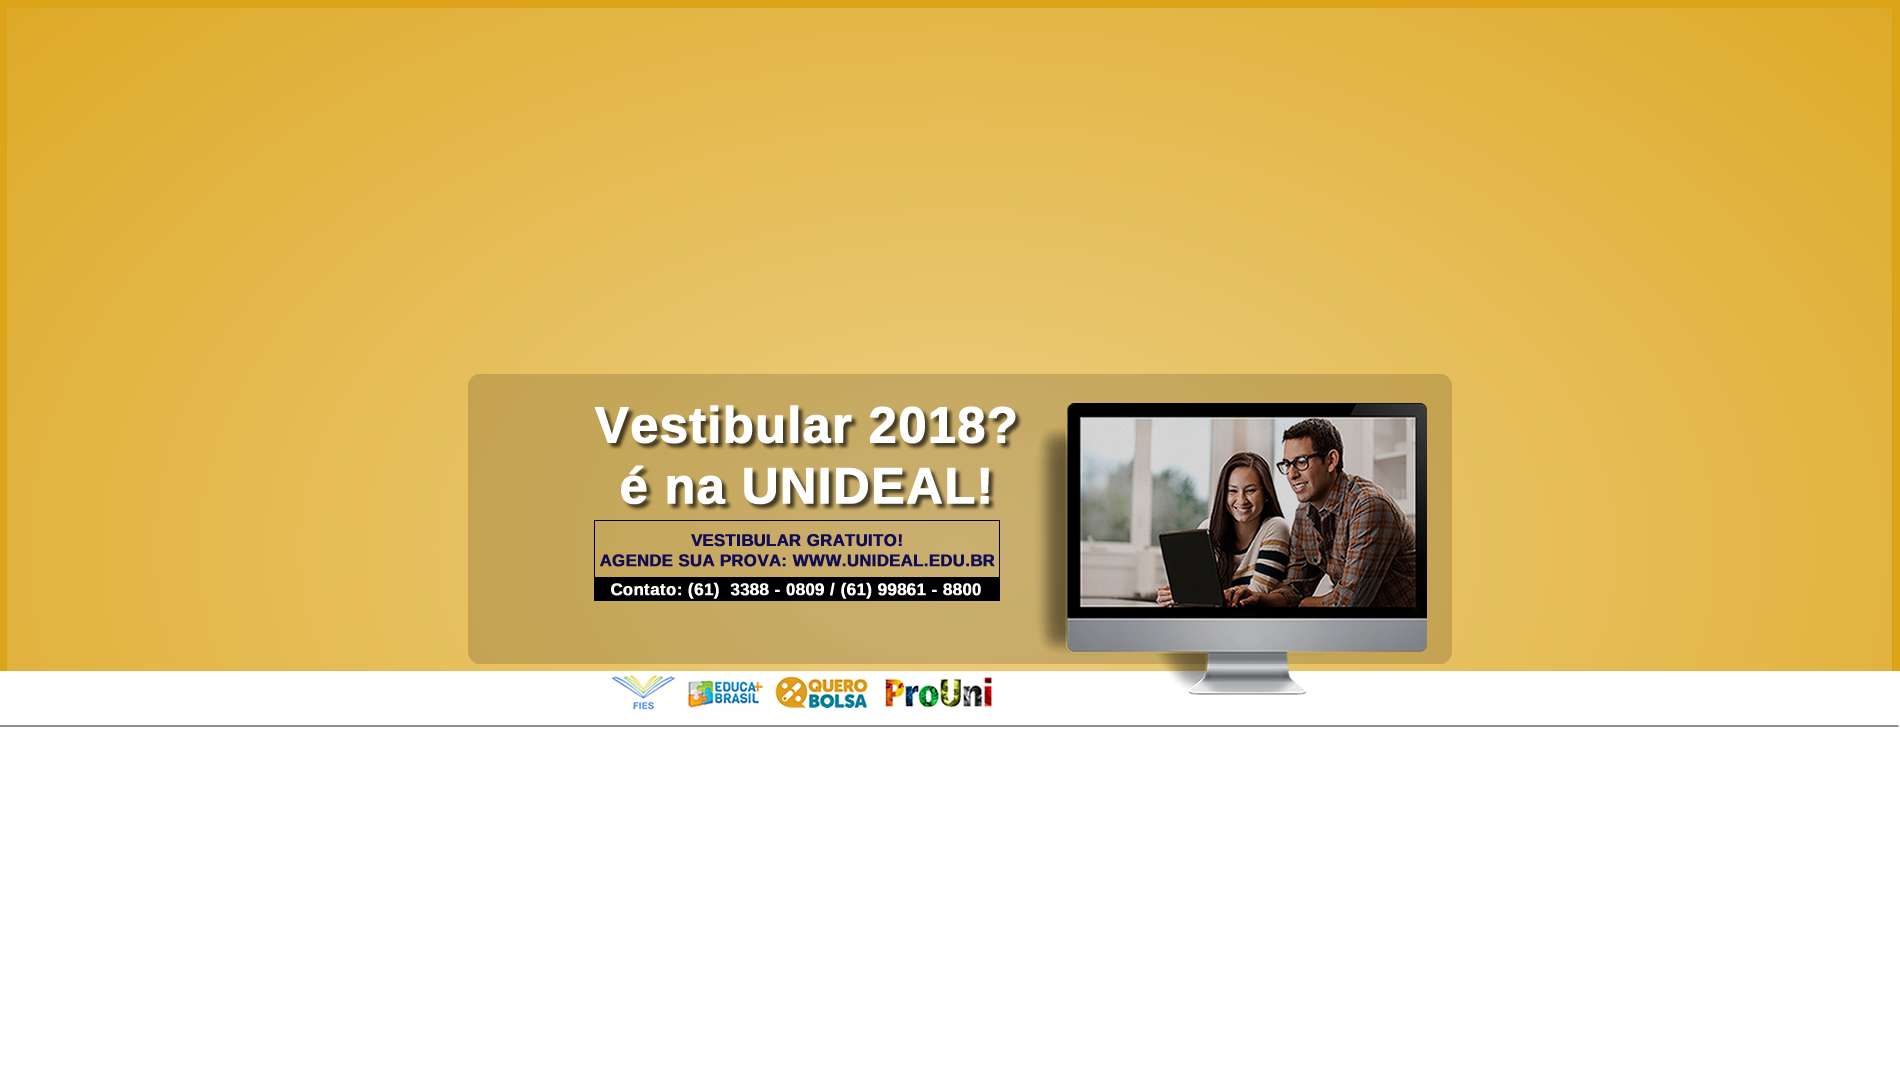
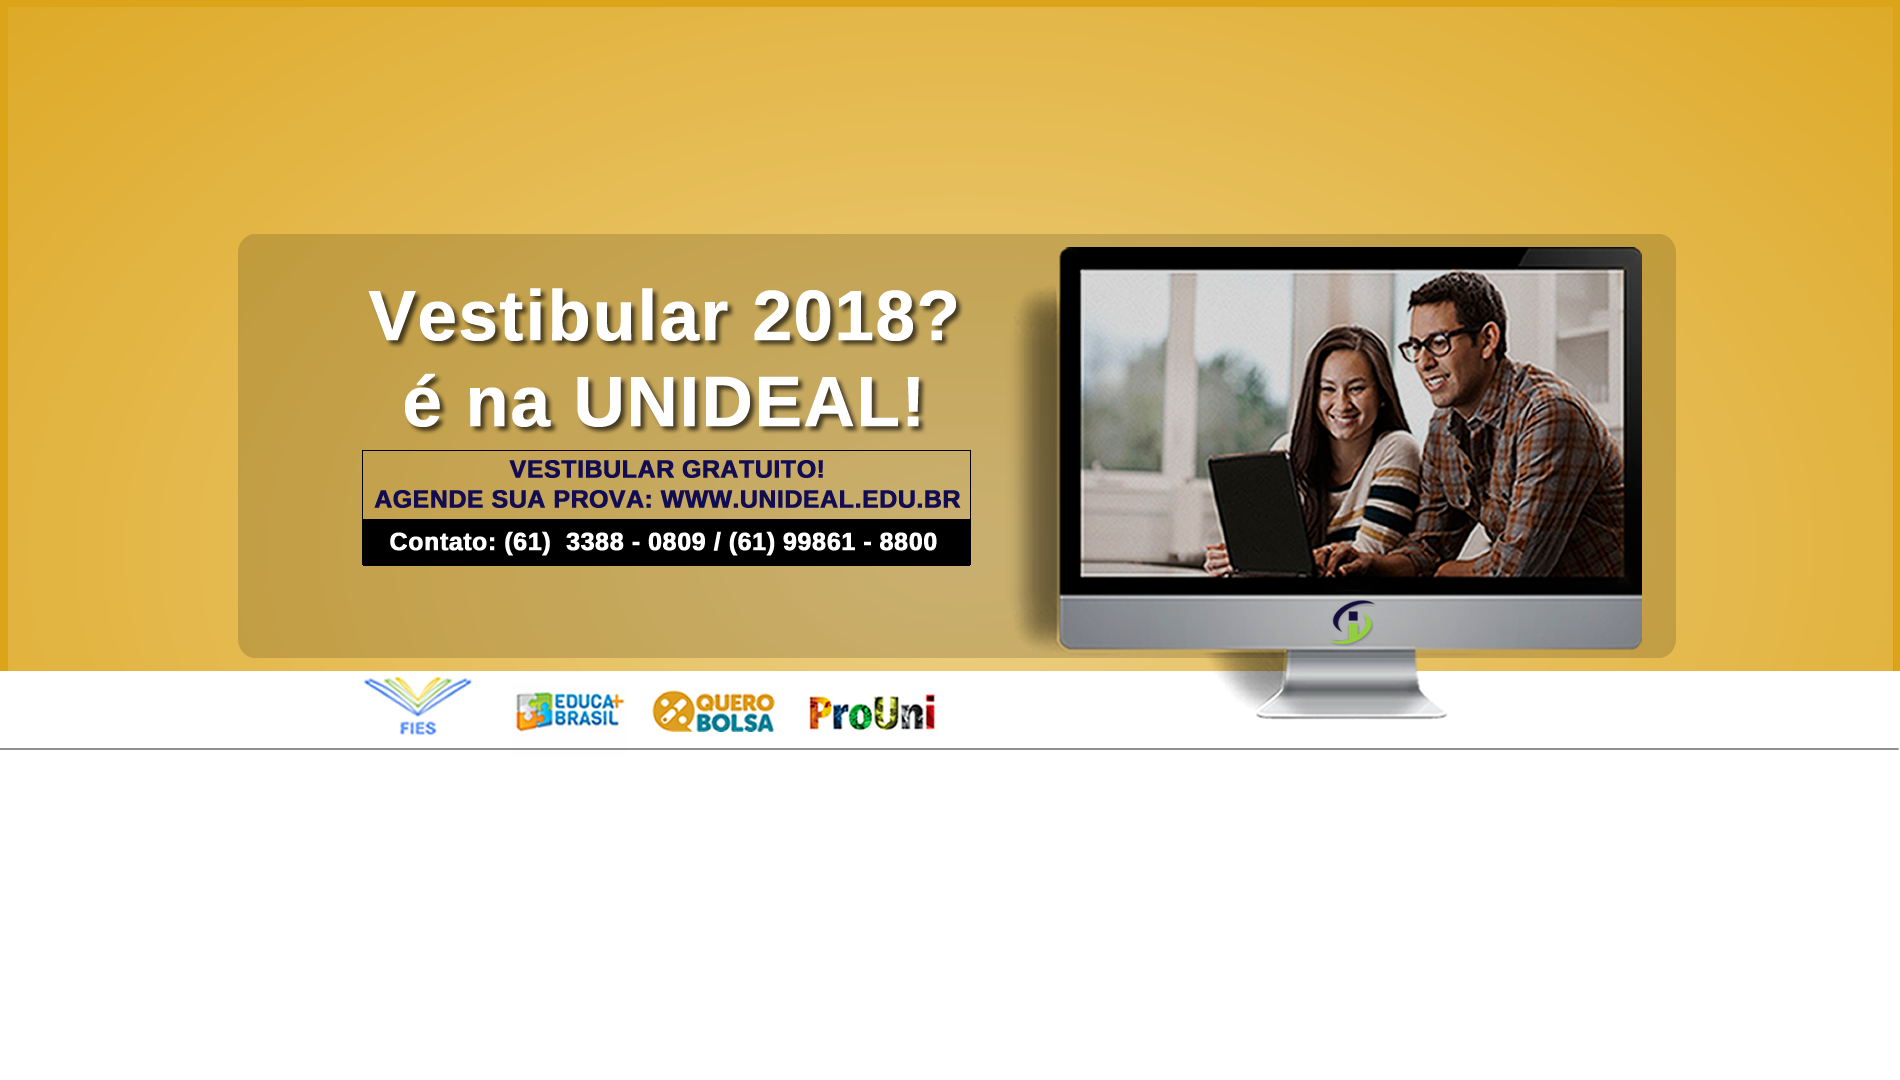
'atualizações'

Changed region(s): [[0.1242, 0.2139, 0.9005, 0.7028]]

diff --git a/index.html b/index.html
@@ -30,12 +30,12 @@
         </ol>
         <div class="carousel-inner" role="listbox">
           <!-- Slide One - Set the background image for this slide in the line below -->
-          <div class="carousel-item active" style="background-image: url(./img/banner_001.png)">
+          <div class="carousel-item active" style="background-image: url(./img/banner_001a.png)">
             <div class="carousel-caption d-none d-md-block">
           </div>
           </div>
           <!-- Slide Two - Set the background image for this slide in the line below -->
-          <div class="carousel-item" style="background-image: url(./img/banner_002.png)">
+          <div class="carousel-item" style="background-image: url(./img/banner_002a.png)">
             <div class="carousel-caption d-none d-md-block">
           </div>
           </div>

diff --git a/css/half-slider.css b/css/half-slider.css
@@ -4,15 +4,16 @@
  * Licensed under MIT (https://github.com/BlackrockDigital/startbootstrap-half-slider/blob/master/LICENSE)
  */
 
-.carousel-item {
-  height: 64vh;
-  min-height: 300px;
-  background: no-repeat center center scroll;
-  -webkit-background-size: cover;
-  -moz-background-size: cover;
-  -o-background-size: cover;
-  background-size: cover;
+ @media only screen and (min-width: 300px) {
+	.carousel-item {
+		height: 75vh;
+    min-height: 300px;
+    background: no-repeat center center scroll;
+    -webkit-background-size: cover;
+    -moz-background-size: cover;
+    -o-background-size: cover;
+    background-size: 100%;
+	}
 }
-
 
 
